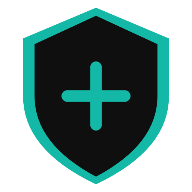
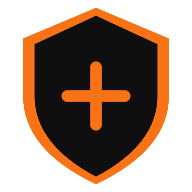
Replace teal accent palette with warm orange (orange-600 #ea580c primary)
Swap all teal accent colors to an orange palette for a warmer, more distinctive visual identity while keeping indigo for buttons/links as complementary contrast. Regenerate all favicon PNGs to match.

Color mapping:
- #0d9488 (teal-600) -> #ea580c (orange-600) primary accent
- #0f766e (teal-700) -> #c2410c (orange-700) hover states
- #14b8a6 (teal-500) -> #f97316 (orange-500) logo, hero, headings
- #2dd4bf (teal-400) -> #fb923c (orange-400) H3 subheadings
- #2d9d78 (green) -> #ea580c (orange-600) subscribe checkmarks

Changed region(s): [[0.0938, 0.0312, 0.9062, 0.9688], [0.3125, 0.3125, 0.6875, 0.6875]]

diff --git a/layouts/index.html b/layouts/index.html
@@ -70,7 +70,7 @@
         .xd-logo svg {
             width: 32px;
             height: 32px;
-            fill: #0d9488;
+            fill: #f97316;
         }
         
         .xd-logo-text {
@@ -118,10 +118,10 @@
         .hero-eyebrow {
             display: inline-block;
             padding: 0.375rem 0.875rem;
-            border: 1px solid #14b8a6;
+            border: 1px solid #f97316;
             border-radius: 20px;
             font-size: 0.6875rem;
-            color: #14b8a6;
+            color: #f97316;
             text-transform: uppercase;
             letter-spacing: 0.1em;
             font-weight: 700;
@@ -166,7 +166,7 @@
         }
         
         .stat-badge-number {
-            color: #0d9488;
+            color: #ea580c;
             font-weight: 700;
         }
         
@@ -248,14 +248,14 @@
         }
         
         .sidebar-stat-value.accent {
-            color: #0d9488;
+            color: #ea580c;
         }
         
         /* Ad callout with close button */
         .ad-callout {
             background: linear-gradient(135deg, #1a1a1a 0%, #222 100%);
             border: 1px solid #363636;
-            border-left: 3px solid #0d9488;
+            border-left: 3px solid #ea580c;
             border-radius: 8px;
             padding: 1.25rem;
             position: relative;
@@ -287,7 +287,7 @@
         .ad-title {
             font-size: 0.75rem;
             font-weight: 600;
-            color: #0d9488;
+            color: #ea580c;
             text-transform: uppercase;
             letter-spacing: 0.05em;
             margin-bottom: 0.5rem;
@@ -303,7 +303,7 @@
         .ad-cta {
             display: inline-block;
             padding: 0.5rem 1rem;
-            background: #0d9488;
+            background: #ea580c;
             color: white;
             text-decoration: none;
             border-radius: 4px;
@@ -313,7 +313,7 @@
         }
         
         .ad-cta:hover {
-            background: #0f766e;
+            background: #c2410c;
         }
         
         .section-header {
@@ -455,7 +455,7 @@
         .mini-stat-number {
             font-size: 1.75rem;
             font-weight: 700;
-            color: #0d9488;
+            color: #ea580c;
             margin-bottom: 0.25rem;
         }
         
@@ -554,11 +554,11 @@
         }
         
         .xd-btn-accent {
-            background: #0d9488;
+            background: #ea580c;
         }
         
         .xd-btn-accent:hover {
-            background: #0f766e;
+            background: #c2410c;
         }
         
         /* Footer */
@@ -630,7 +630,7 @@
         
         .subscribe-features span::before {
             content: '✓';
-            color: #2d9d78;
+            color: #ea580c;
             margin-right: 0.5rem;
             font-weight: bold;
         }
@@ -772,9 +772,9 @@
         <div class="xd-header-container">
             <a href="/" class="xd-logo">
                 <svg xmlns="http://www.w3.org/2000/svg" viewBox="0 0 24 24">
-                    <path fill="#14b8a6" d="M12 1L3 5v6c0 5.55 3.84 10.74 9 12 5.16-1.26 9-6.45 9-12V5l-9-4z"/>
+                    <path fill="#f97316" d="M12 1L3 5v6c0 5.55 3.84 10.74 9 12 5.16-1.26 9-6.45 9-12V5l-9-4z"/>
                     <path fill="#0f0f0f" d="M12 3.19l7 3.11v5.7c0 4.52-2.98 8.69-7 9.93-4.02-1.24-7-5.41-7-9.93V6.3l7-3.11z"/>
-                    <path fill="#14b8a6" d="M12 7v10m-5-5h10" stroke="#14b8a6" stroke-width="1.5" stroke-linecap="round"/>
+                    <path fill="#f97316" d="M12 7v10m-5-5h10" stroke="#f97316" stroke-width="1.5" stroke-linecap="round"/>
                 </svg>
                 <span class="xd-logo-text">Experience Digest</span>
             </a>
@@ -969,7 +969,7 @@
                     </div>
                     <div style="margin-top: 1rem; padding: 0.75rem; background: #222; border: 1px solid #2a2a2a; border-radius: 6px; text-align: center;">
                         <div style="color: #b3b3b3; font-size: 0.75rem; text-transform: uppercase; letter-spacing: 0.05em;">Updates Every</div>
-                        <div style="color: #0d9488; font-weight: 700; font-size: 0.875rem; margin-top: 0.25rem;">6 Hours</div>
+                        <div style="color: #ea580c; font-weight: 700; font-size: 0.875rem; margin-top: 0.25rem;">6 Hours</div>
                     </div>
                 </div>
             </div>

diff --git a/static/css/main.css b/static/css/main.css
@@ -1744,7 +1744,7 @@ body {
 .xd-logo svg {
     width: 32px;
     height: 32px;
-    fill: #14b8a6;
+    fill: #f97316;
 }
 
 .xd-logo-text {
@@ -1972,7 +1972,7 @@ body {
 }
 
 .card-title a:hover {
-    color: #14b8a6;
+    color: #f97316;
 }
 
 /* Content card styling */
@@ -1980,7 +1980,7 @@ body {
 .card-summary h2 {
     font-size: 0.95rem;
     font-weight: 600;
-    color: #14b8a6;
+    color: #f97316;
     margin: 1rem 0 0.5rem 0;
 }
 
@@ -1988,7 +1988,7 @@ body {
 .card-summary h3 {
     font-size: 0.875rem;
     font-weight: 600;
-    color: #2dd4bf;
+    color: #fb923c;
     margin: 0.75rem 0 0.5rem 0;
 }
 
@@ -2016,7 +2016,7 @@ body {
 .content-card li:hover,
 .card-summary li:hover {
     background: rgba(255, 255, 255, 0.05);
-    border-left-color: #0d9488;
+    border-left-color: #ea580c;
 }
 
 .content-card li strong,
@@ -2102,11 +2102,11 @@ body {
 }
 
 .xd-btn-accent {
-    background: #0d9488;
+    background: #ea580c;
 }
 
 .xd-btn-accent:hover {
-    background: #0f766e;
+    background: #c2410c;
 }
 
 /* Button aliases for backwards compatibility */
@@ -2131,11 +2131,11 @@ body {
 }
 
 .btn-primary {
-    background: #0d9488;
+    background: #ea580c;
 }
 
 .btn-primary:hover {
-    background: #0f766e;
+    background: #c2410c;
 }
 
 .btn-secondary {
@@ -2203,7 +2203,7 @@ body {
 
 .subscribe-button {
     padding: 0.625rem 1.25rem;
-    background: #0d9488;
+    background: #ea580c;
     color: white;
     border: none;
     border-radius: 4px;
@@ -2214,7 +2214,7 @@ body {
 }
 
 .subscribe-button:hover {
-    background: #0f766e;
+    background: #c2410c;
 }
 
 .subscribe-features {
@@ -2229,7 +2229,7 @@ body {
 
 .subscribe-features span::before {
     content: '✓';
-    color: #2d9d78;
+    color: #ea580c;
     margin-right: 0.5rem;
     font-weight: bold;
 }

diff --git a/layouts/_default/baseof.html b/layouts/_default/baseof.html
@@ -41,9 +41,9 @@
         <div class="xd-header-container">
             <a href="/" class="xd-logo">
                 <svg xmlns="http://www.w3.org/2000/svg" viewBox="0 0 24 24">
-                    <path fill="#14b8a6" d="M12 1L3 5v6c0 5.55 3.84 10.74 9 12 5.16-1.26 9-6.45 9-12V5l-9-4z"/>
+                    <path fill="#f97316" d="M12 1L3 5v6c0 5.55 3.84 10.74 9 12 5.16-1.26 9-6.45 9-12V5l-9-4z"/>
                     <path fill="#0f0f0f" d="M12 3.19l7 3.11v5.7c0 4.52-2.98 8.69-7 9.93-4.02-1.24-7-5.41-7-9.93V6.3l7-3.11z"/>
-                    <path fill="#14b8a6" d="M12 7v10m-5-5h10" stroke="#14b8a6" stroke-width="1.5" stroke-linecap="round"/>
+                    <path fill="#f97316" d="M12 7v10m-5-5h10" stroke="#f97316" stroke-width="1.5" stroke-linecap="round"/>
                 </svg>
                 <span class="xd-logo-text">Experience Digest</span>
             </a>

diff --git a/generate-favicon.html b/generate-favicon.html
@@ -22,7 +22,7 @@
         const cy = size / 2;
         
         // Draw shield outline (filled)
-        ctx.fillStyle = '#14b8a6';
+        ctx.fillStyle = '#f97316';
         ctx.beginPath();
         // Shield shape: pointed bottom, flat top with slight curve
         ctx.moveTo(cx, size * 0.04);  // top center
@@ -48,7 +48,7 @@
         ctx.fill();
         
         // Draw plus sign
-        ctx.strokeStyle = '#14b8a6';
+        ctx.strokeStyle = '#f97316';
         ctx.lineWidth = size * 0.06;
         ctx.lineCap = 'round';
         
